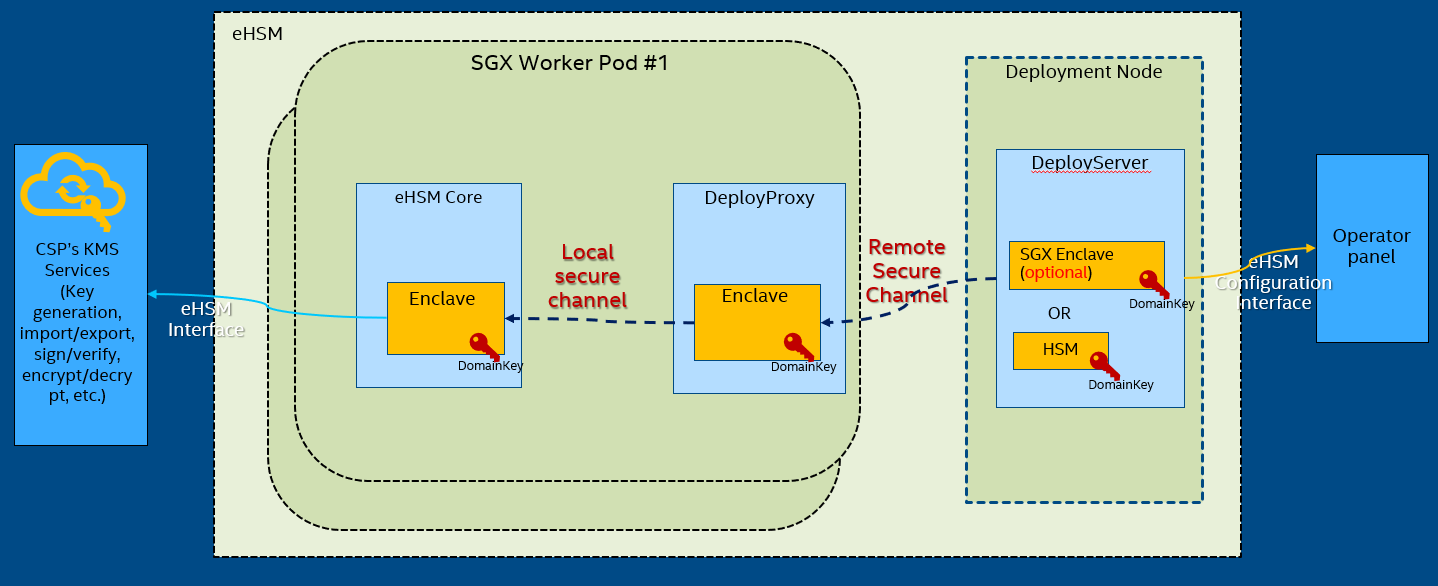
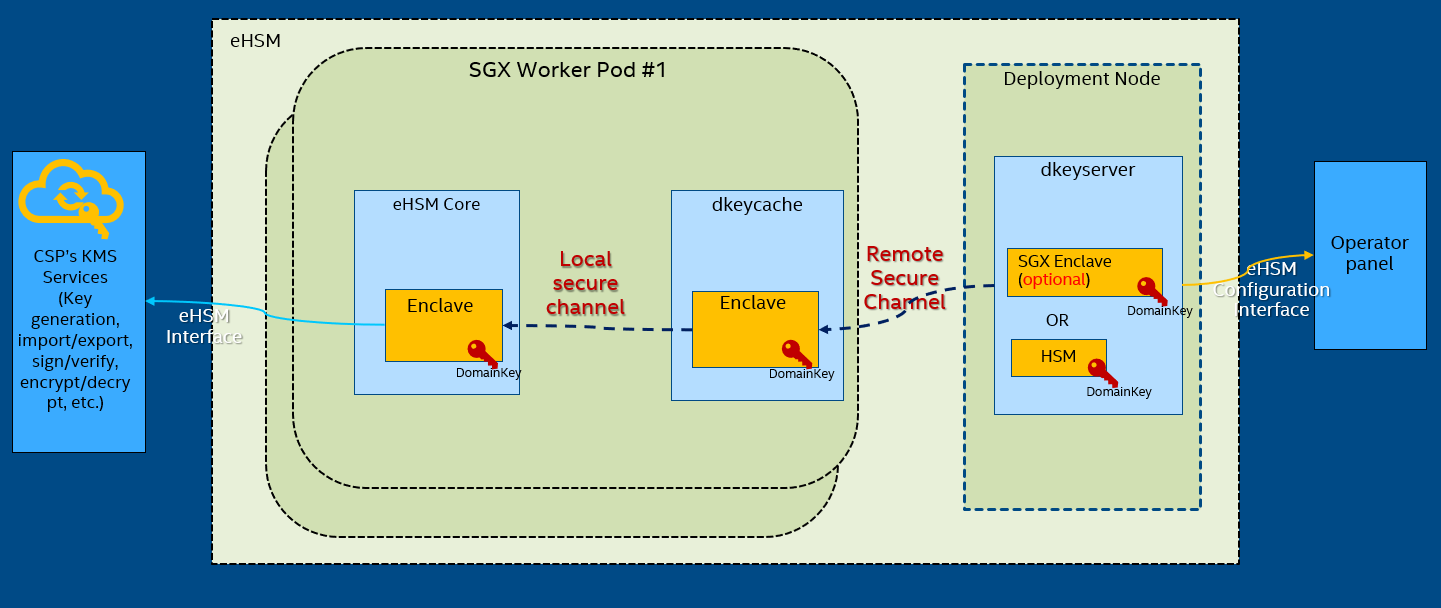
update the Readme and arch diagram

Changed region(s): [[0.0, 0.0, 1.0, 0.9522], [0.2448, 0.3072, 0.3672, 0.3686], [0.2142, 0.7679, 0.2448, 0.7986]]

diff --git a/README.md b/README.md
@@ -107,26 +107,26 @@ But for the real product, the user need to deploy them into different platform a
     it will create a socket server and wait the connection request from ehsm-dkeycache agent and deploy the DK to it via a remote secure channel based
     on the SGX remote attestation. (The PCCS server is  the above step)
     ```
-***Note**** It's Recommend that the ehsm-dkeycache and ehsm-core should be deployed into one Pod with 1:1 mapping 
+***Note**** It's Recommend that the ehsm-dkeycache and ehsm-core should be deployed into one Pod with 1:1 mapping
 - Start the service of ehsm-dkeycache
     ```shell
     # cd deployserver/out
     # sudo ./ehsm-dkeyserver
-    
+
     It will try connect to the deployserver to retrieve the DK via the secure remote channel estabilished by the remote attestation. Then it will create another new
     socket to wait the connection from ehsm-core service.
-    A local secure channel based the local sealing key will be setup which used to transfer the DK between dkeycache and ehsm-core.
+    A local secure channel based the local attestation protocol will be setup which used to transfer the DK between dkeycache and ehsm-core.
 
     ```
 - Start the service of ehsm-core
     ```shell
     # cd core/out
     # sudo ./ehsm-core
-    
+
     It will try connect to the dkeycache to retrieve the DK via the local secure remote channel, then keep it in the SGX enclave.
-    
+
     When the DK provisioning is done, each key materials generated/imported/exported from the ehsm-core service will be encrypted by the DK, only the cipher text will
     be returned to the caller.
-    A local secure channel based the local sealing key will be setup which used to transfer the DK between dkeycache and ehsm-core.
+    A local secure channel based the local attestation will be setup which used to transfer the DK between dkeycache and ehsm-core.
 
     ```
